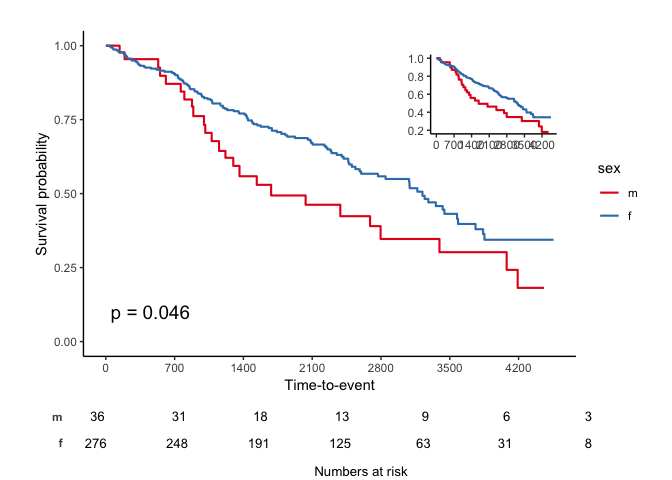
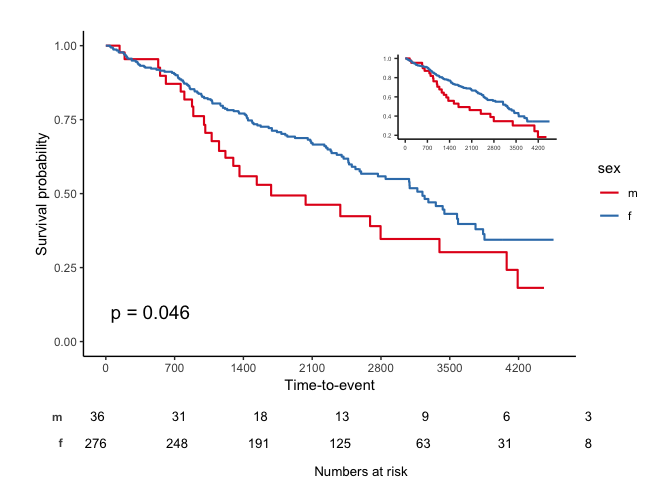
fix readme

Changed region(s): [[0.5625, 0.0938, 0.8438, 0.3125]]

diff --git a/README.md b/README.md
@@ -112,7 +112,7 @@ jskm(fit, theme='jama', cumhaz = T, table=T, mark = F, ylab = "Cumulative incide
 #### NEJM
 
 ``` r
-jskm(fit, theme='nejm', nejm.infigure.ratiow = 0.6, nejm.infigure.ratioh = 0.4, nejm.infigure.ylim = c(0,0.7), cumhaz = T, table=T, mark = F, ylab = "Cumulative incidence (%)", surv.scale = "percent", pval =T, pval.size = 6, pval.coord = c(300, 0.7))
+jskm(fit, theme='nejm', nejm.infigure.ratiow = 0.7, nejm.infigure.ratioh = 0.4, nejm.infigure.ylim = c(0,0.7), cumhaz = T, table=T, mark = F, ylab = "Cumulative incidence (%)", surv.scale = "percent", pval =T, pval.size = 6, pval.coord = c(300, 0.7))
 ```
 
 ![](man/figures/README-unnamed-chunk-6-1.png)<!-- -->
@@ -183,7 +183,7 @@ svyjskm(s2, theme='jama', pval = T,  table = T, design = dpbc)
 #### NEJM
 
 ``` r
-svyjskm(s2, theme='nejm', nejm.infigure.ratiow = 0.4, nejm.infigure.ratioh = 0.4, nejm.infigure.ylim = c(0.2,1), pval = T,  table = T, design = dpbc)
+svyjskm(s2, theme='nejm', nejm.infigure.ratiow = 0.45, nejm.infigure.ratioh = 0.4, nejm.infigure.ylim = c(0.2,1), pval = T,  table = T, design = dpbc)
 ```
 
 ![](man/figures/README-unnamed-chunk-10-1.png)<!-- -->
